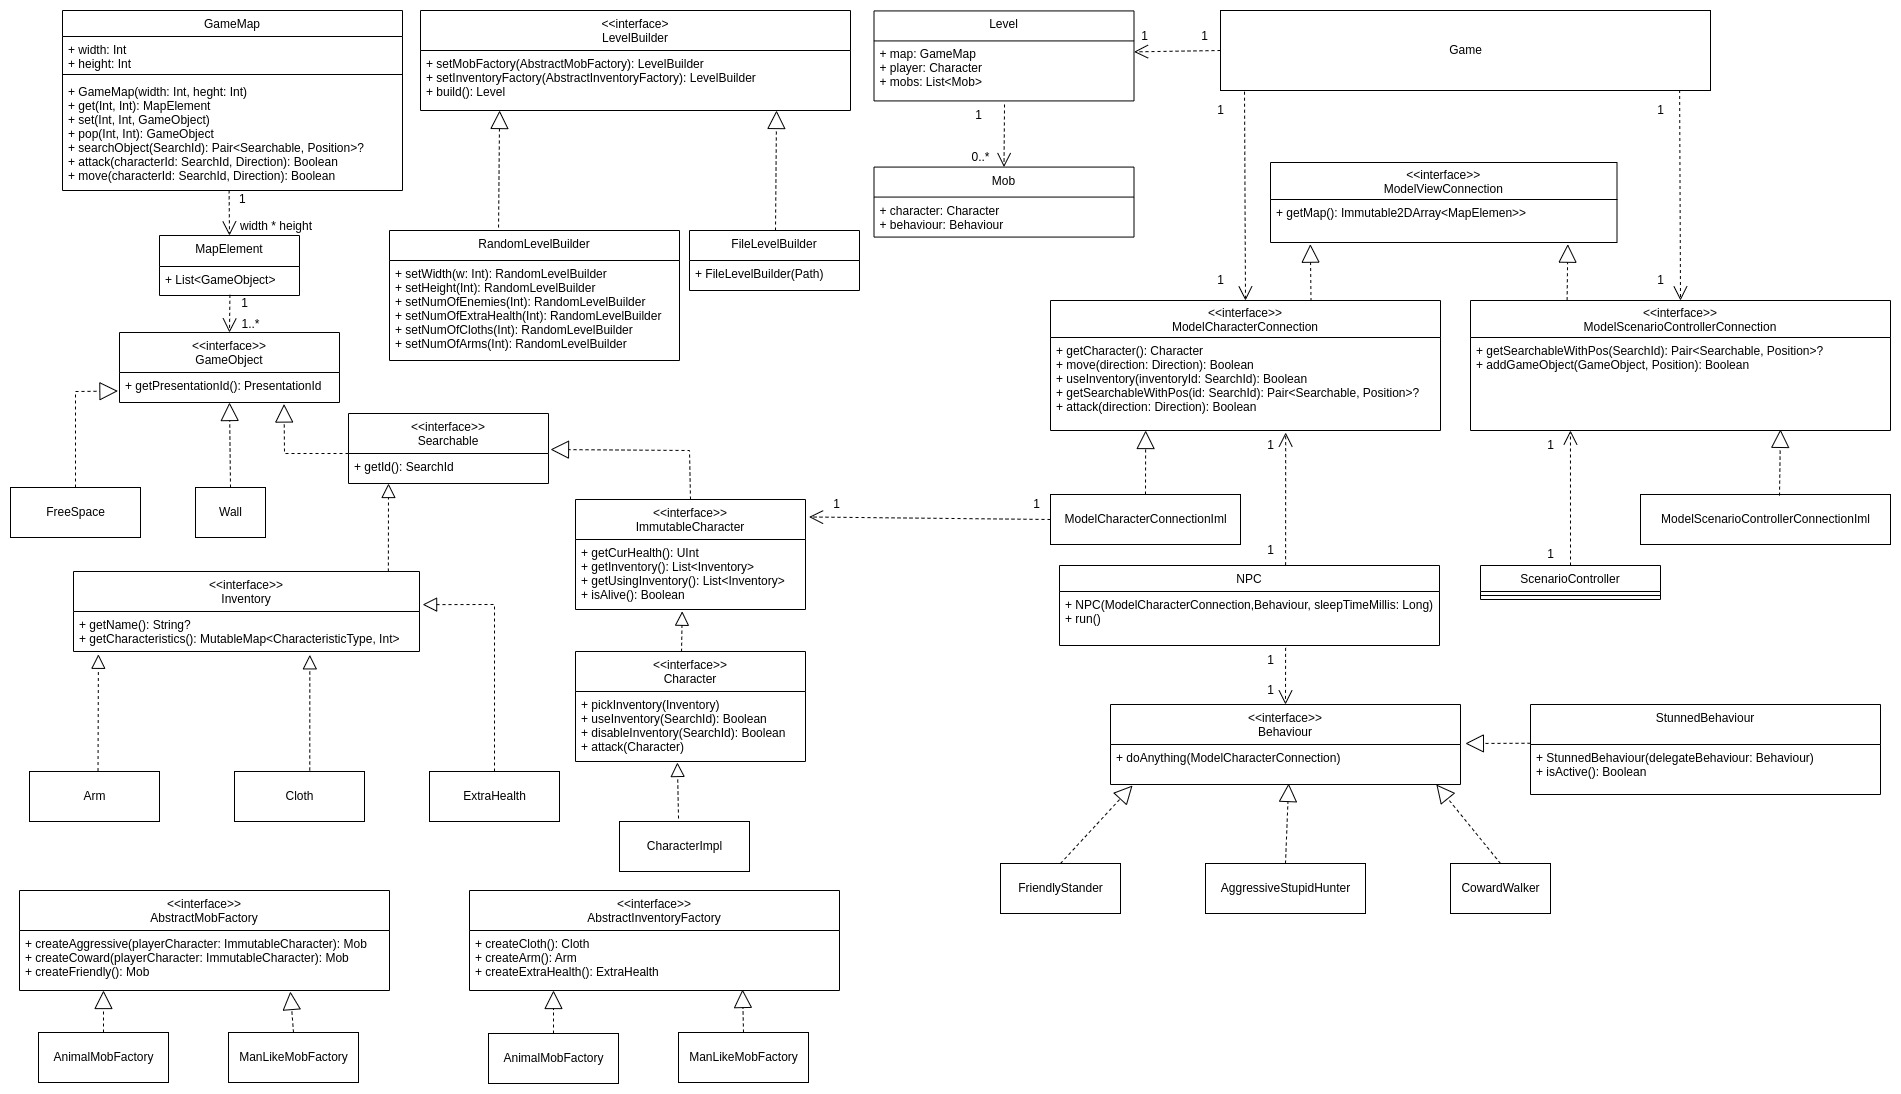
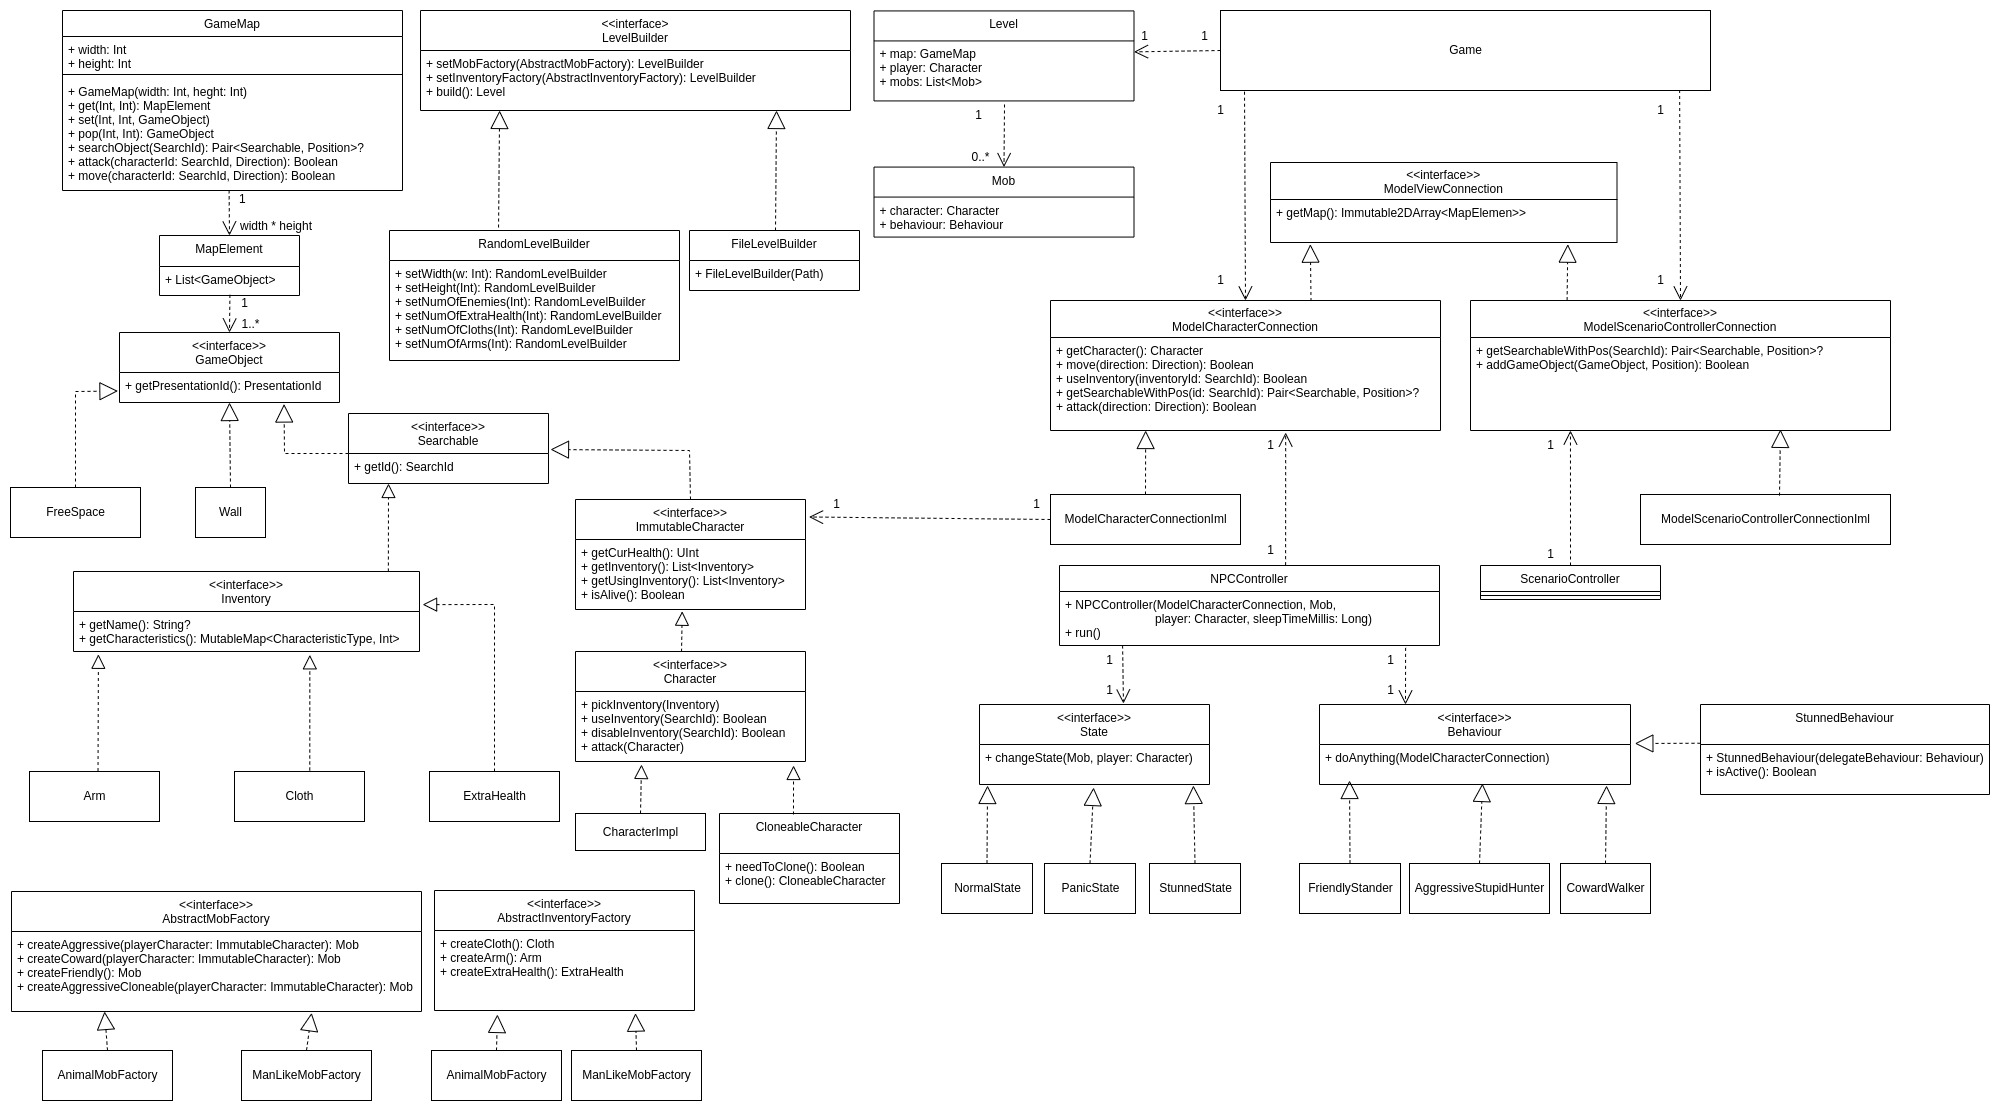
Update design document by cloneable character and mob state

diff --git a/ARCHITECTURE.md b/ARCHITECTURE.md
@@ -233,6 +233,9 @@ Hollow Rogue -- это игра в жанре roguelike с тайловой гр
 Управляет персонажем, неподконтрольным игроку (non-player character),
 в соответствии с `Behaviour`.
 
+### State
+Интерфейс, который задает состояние моба и определяет его поведение
+
 ### Behaviour
 Задает поведение, в соответствии с которым `NPCController` управление
 персонажем.
@@ -262,6 +265,9 @@ Hollow Rogue -- это игра в жанре roguelike с тайловой гр
 ### Character
 Персонаж, который может перемещаться по карте, атаковать других персонажей,
 подбирать и использовать инвентарь.
+
+### CloneableCharacter
+Персонаж, который может быть клонирован.
 
 ### Level
 Содержит текущее состояние игры: карта с объектами, персонажи для управления
